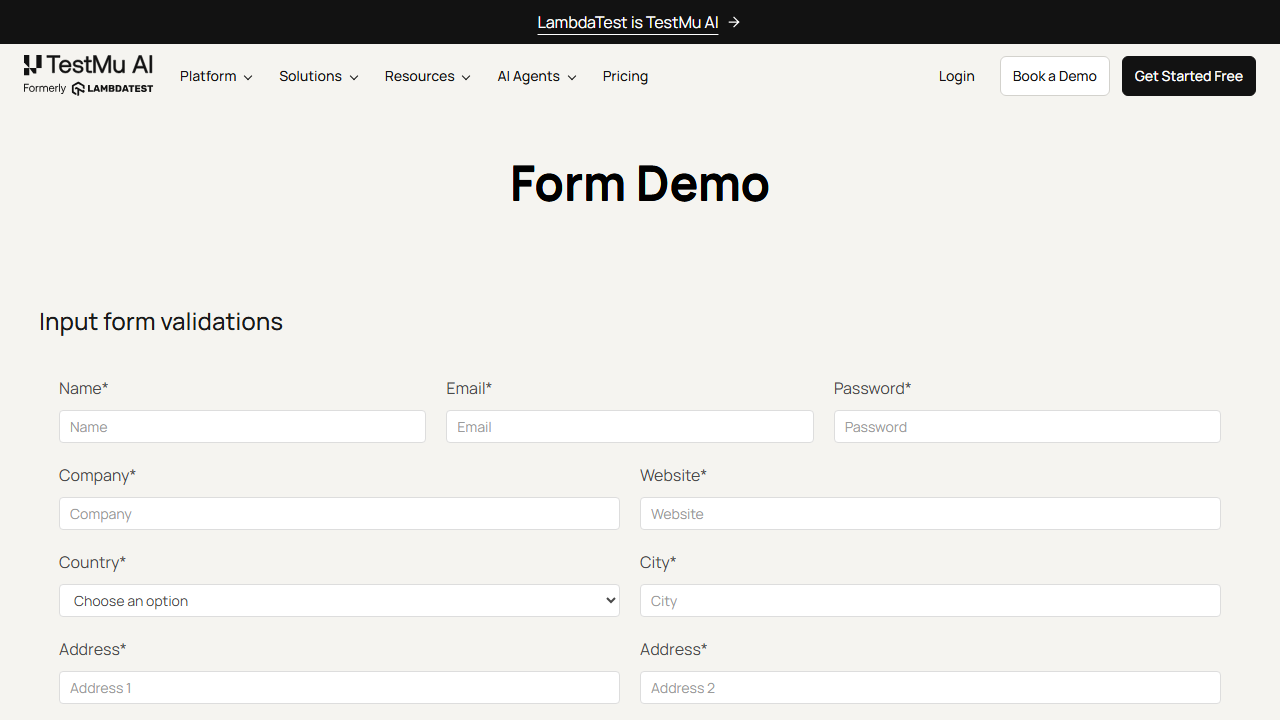
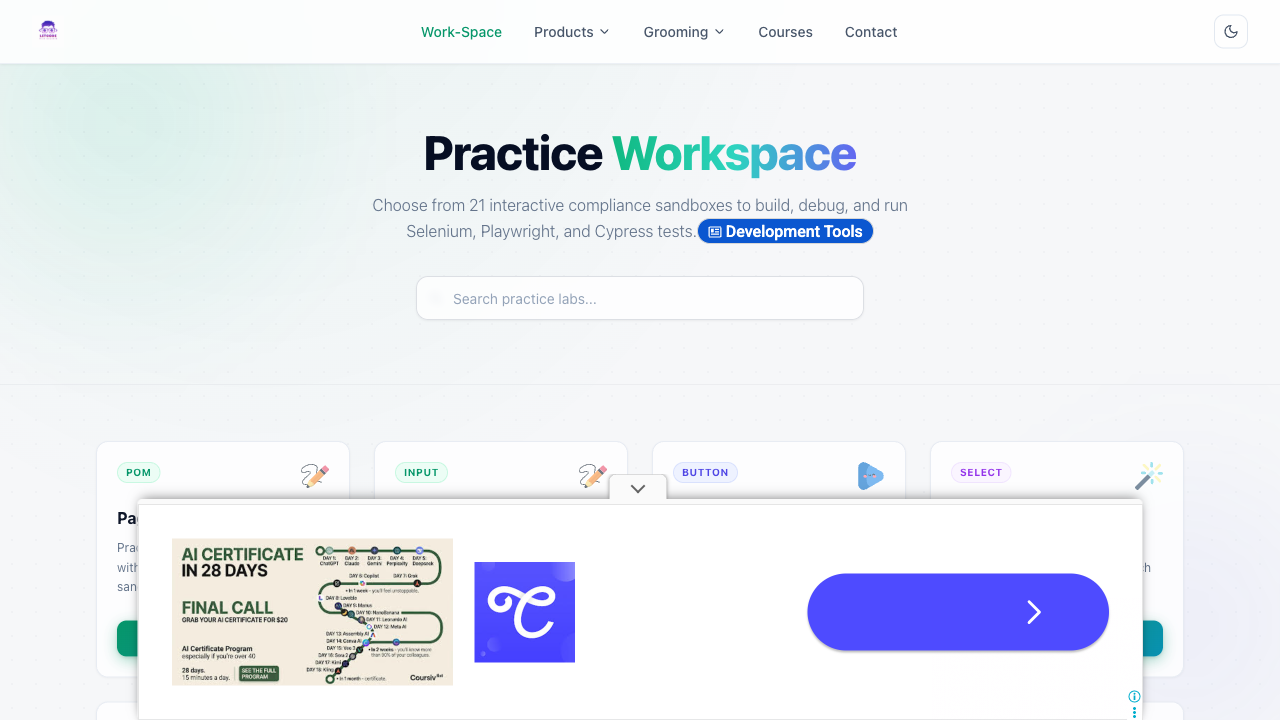
sdet package update

diff --git a/src/test/java/nahmed/screencapture/Screenshots.java b/src/test/java/nahmed/screencapture/Screenshots.java
@@ -1,32 +1,41 @@
 package nahmed.screencapture;
 
 import com.microsoft.playwright.*;
-import com.microsoft.playwright.Page.ScreenshotOptions;
-
+import com.microsoft.playwright.options.ScreenshotType;
 import java.nio.file.Paths;
 
 public class Screenshots {
 
     public static void main(String[] args) {
+        // Initialize Playwright and Browser instances
         Playwright playwright = Playwright.create();
-        Browser browser = playwright.chromium().launch(
-                new BrowserType.LaunchOptions().setHeadless(true) //cause by default it opens in headless
-        );
-        Page page = browser.newPage(); // New Page means new tab
+        Browser browser = playwright.chromium().launch(new BrowserType.LaunchOptions().setHeadless(false));
+        BrowserContext context = browser.newContext();
+        Page page = context.newPage();
+
         page.navigate("https://letcode.in/test");
 
-        // screenshots
-        ScreenshotOptions screenshotOptions = new ScreenshotOptions();
-        page.screenshot(screenshotOptions.setPath(Paths.get("./screenshots/basic_sc.png")));
+        // Basic screenshot
+        page.screenshot(new Page.ScreenshotOptions()
+                .setPath(Paths.get("./screenshots/basic_sc.png")));
 
-        // full page screenshot
-        page.screenshot(screenshotOptions.setFullPage(true).setPath(Paths.get("./screenshots/fullPage_sc.png")));
+        // Full page screenshot
+        page.screenshot(new Page.ScreenshotOptions()
+                .setFullPage(true)
+                .setPath(Paths.get("./screenshots/fullPage_sc.png")));
 
-        // locator screenshot
-        Locator shadow = page.locator("//p[text()=' Shadow ']/../..");
-        shadow.screenshot(new Locator.ScreenshotOptions().setPath(Paths.get("./screenshots/locator_sc.png")));
+        // Locator screenshot (PNG)
+        Locator shadow = page.locator("//a[@href='/shadow']/..");
+        shadow.screenshot(new Locator.ScreenshotOptions()
+                .setPath(Paths.get("./screenshots/locator_sc.png")));
+
+        // Locator screenshot (JPEG with quality)
+        shadow.screenshot(new Locator.ScreenshotOptions()
+                .setPath(Paths.get("./screenshots/locator_sc.jpeg"))
+                .setType(ScreenshotType.JPEG)
+                .setQuality(80)
+        );
 
         playwright.close();
     }
-
 }

diff --git a/src/test/java/sdet/JsAlerts.java b/src/test/java/sdet/JsAlerts.java
@@ -5,7 +5,7 @@ import com.microsoft.playwright.*;
 public class JsAlerts {
 
     public static void main(String[] args) {
-        // Initialize Playwright and Launch Browser
+        // Initialize Playwright and Browser instances
         Playwright playwright = Playwright.create();
         Browser browser = playwright.chromium().launch(new BrowserType.LaunchOptions().setHeadless(false));
         BrowserContext context = browser.newContext();
@@ -48,6 +48,12 @@ public class JsAlerts {
         page.locator("//button[text()='Click for JS Prompt']").click();
         System.out.println(page.locator("#result").innerText());
 
+
+        //page.onceDialog()
+        // Unregisters automatically after handling one dialog.
+
+        //page.onDialog()
+        // Persists for the entire duration of the Page session.
 
         // Clean up resources manually
         page.close();

diff --git a/src/test/java/nahmed/screencapture/Screenshots2.java b/src/test/java/nahmed/screencapture/Screenshots2.java
@@ -10,11 +10,12 @@ import java.util.Arrays;
 public class Screenshots2 {
 
     public static void main(String[] args) {
+        // Initialize Playwright and Browser instances
         Playwright playwright = Playwright.create();
-        Browser browser = playwright.chromium().launch(
-                new BrowserType.LaunchOptions().setHeadless(true) //cause by default it opens in headless
-        );
-        Page page = browser.newPage(); // New Page means new tab
+        Browser browser = playwright.chromium().launch(new BrowserType.LaunchOptions().setHeadless(false));
+        BrowserContext context = browser.newContext();
+        Page page = context.newPage();
+
         page.navigate("https://www.testmuai.com/selenium-playground/input-form-demo/");
 
         // screenshots

diff --git a/src/test/java/sdet/StatusOfLocators.java b/src/test/java/sdet/StatusOfLocators.java
@@ -2,10 +2,10 @@ package sdet;
 
 import com.microsoft.playwright.*;
 
-public class StatusOfWebElement {
+public class StatusOfLocators {
 
     public static void main(String[] args) {
-        // Initialize Playwright and Launch Browser
+        // Initialize Playwright and Browser instances
         Playwright playwright = Playwright.create();
         Browser browser = playwright.chromium().launch(new BrowserType.LaunchOptions().setHeadless(false));
         BrowserContext context = browser.newContext();

diff --git a/src/test/java/sdet/SizeAndLocationOfElement.java b/src/test/java/sdet/SizeAndLocationOfElement.java
@@ -6,7 +6,7 @@ import com.microsoft.playwright.options.BoundingBox;
 public class SizeAndLocationOfElement {
 
     public static void main(String[] args) {
-        // Initialize Playwright and Launch Browser
+        // Initialize Playwright and Browser instances
         Playwright playwright = Playwright.create();
         Browser browser = playwright.chromium().launch(new BrowserType.LaunchOptions().setHeadless(false));
         BrowserContext context = browser.newContext();

diff --git a/src/test/java/sdet/Slider.java b/src/test/java/sdet/Slider.java
@@ -6,7 +6,7 @@ import com.microsoft.playwright.options.BoundingBox;
 public class Slider {
 
     public static void main(String[] args) {
-        // Initialize Playwright and Launch Browser
+        // Initialize Playwright and Browser instances
         Playwright playwright = Playwright.create();
         Browser browser = playwright.chromium().launch(new BrowserType.LaunchOptions().setHeadless(false));
         BrowserContext context = browser.newContext();

diff --git a/src/test/java/sdet/OpenLinkInNewTab.java b/src/test/java/sdet/OpenLinkInNewTab.java
@@ -5,7 +5,7 @@ import com.microsoft.playwright.*;
 public class OpenLinkInNewTab {
 
     public static void main(String[] args) {
-        // Initialize Playwright and Launch Browser
+        // Initialize Playwright and Browser instances
         Playwright playwright = Playwright.create();
         Browser browser = playwright.chromium().launch(new BrowserType.LaunchOptions().setHeadless(false));
         BrowserContext context = browser.newContext();

diff --git a/src/test/java/sdet/KeyboardActions.java b/src/test/java/sdet/KeyboardActions.java
@@ -5,7 +5,7 @@ import com.microsoft.playwright.*;
 public class KeyboardActions {
 
     public static void main(String[] args) {
-        // Initialize Playwright and Launch Browser
+        // Initialize Playwright and Browser instances
         Playwright playwright = Playwright.create();
         Browser browser = playwright.chromium().launch(new BrowserType.LaunchOptions().setHeadless(false));
         BrowserContext context = browser.newContext();

diff --git a/src/test/java/sdet/Navigations.java b/src/test/java/sdet/Navigations.java
@@ -5,7 +5,7 @@ import com.microsoft.playwright.*;
 public class Navigations {
 
     public static void main(String[] args) {
-        // Initialize Playwright and Launch Browser
+        // Initialize Playwright and Browser instances
         Playwright playwright = Playwright.create();
         Browser browser = playwright.chromium().launch(new BrowserType.LaunchOptions().setHeadless(false));
         BrowserContext context = browser.newContext();

diff --git a/src/test/java/sdet/ToolTip.java b/src/test/java/sdet/ToolTip.java
@@ -5,7 +5,7 @@ import com.microsoft.playwright.*;
 public class ToolTip {
 
     public static void main(String[] args) {
-        // Initialize Playwright and Launch Browser
+        // Initialize Playwright and Browser instances
         Playwright playwright = Playwright.create();
         Browser browser = playwright.chromium().launch(new BrowserType.LaunchOptions().setHeadless(false));
         BrowserContext context = browser.newContext();

diff --git a/src/test/java/sdet/BrowserNotifications.java b/src/test/java/sdet/BrowserNotifications.java
@@ -5,7 +5,7 @@ import com.microsoft.playwright.*;
 public class BrowserNotifications {
 
     public static void main(String[] args) throws InterruptedException {
-        // Initialize Playwright and Launch Browser
+        // Initialize Playwright and Browser instances
         Playwright playwright = Playwright.create();
         Browser browser = playwright.chromium().launch(new BrowserType.LaunchOptions().setHeadless(false));
 

diff --git a/src/test/java/sdet/HandlingCookies.java b/src/test/java/sdet/HandlingCookies.java
@@ -9,7 +9,7 @@ import java.util.List;
 public class HandlingCookies {
 
     public static void main(String[] args) {
-        // Initialize Playwright and Launch Browser
+        // Initialize Playwright and Browser instances
         Playwright playwright = Playwright.create();
         Browser browser = playwright.chromium().launch(new BrowserType.LaunchOptions().setHeadless(false));
 
